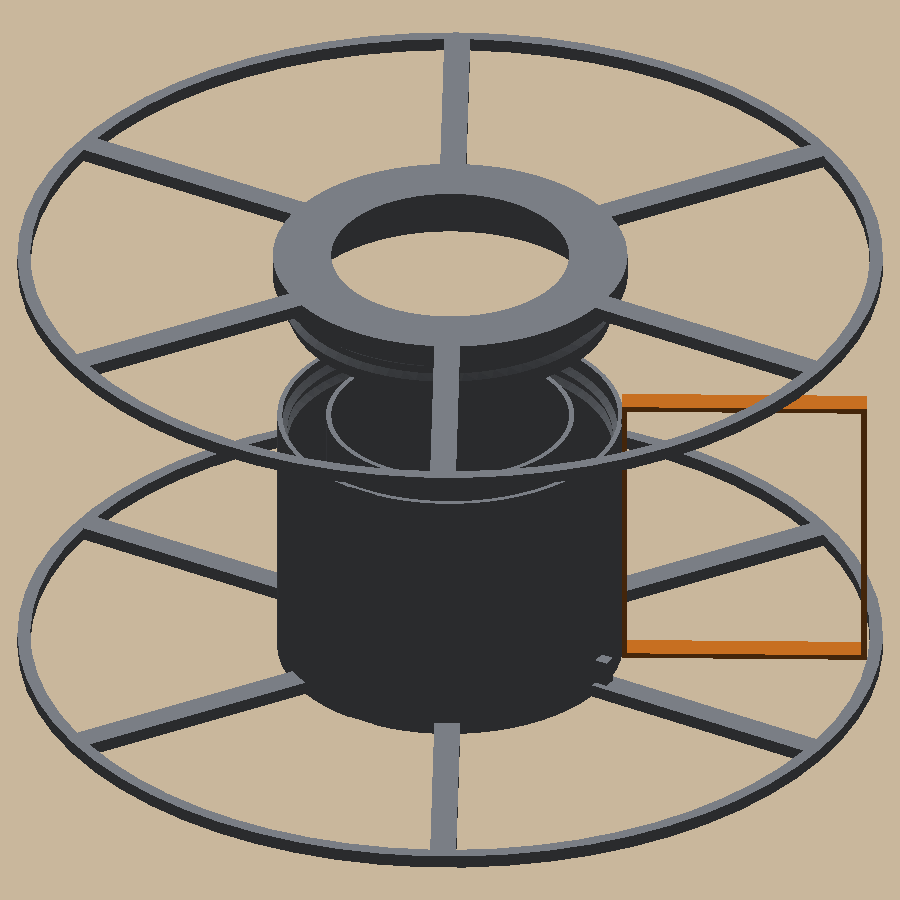
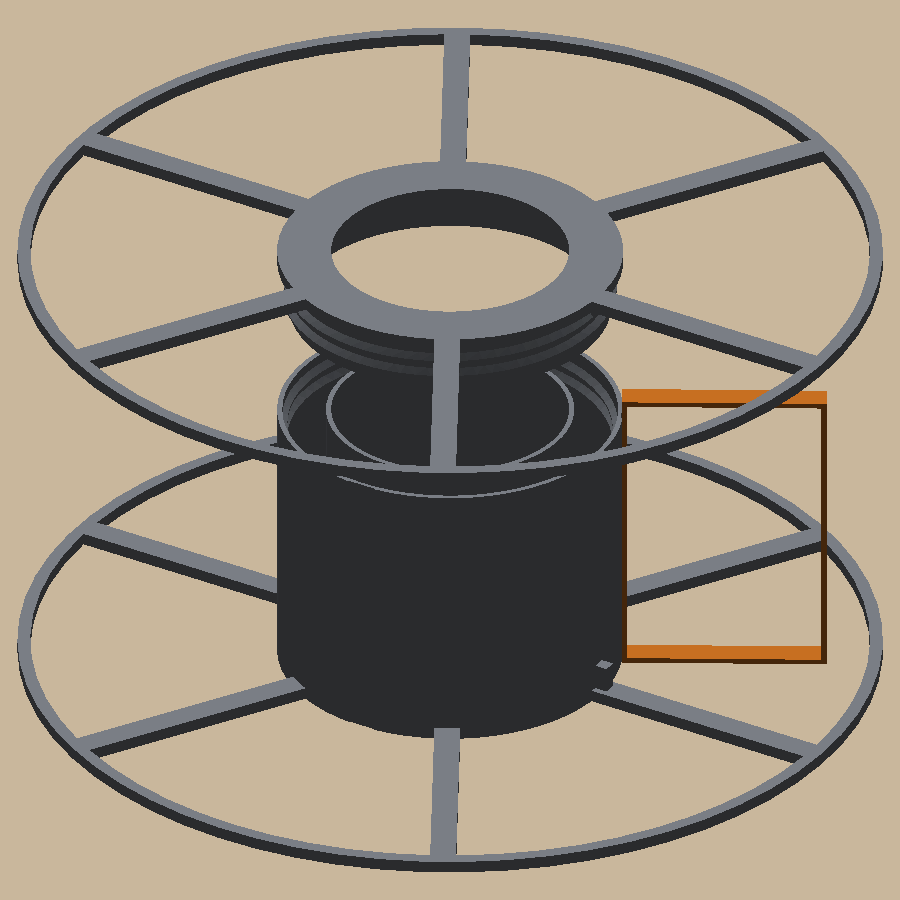
Refill spool: sized to a measured refill (61 mm coil, 171.5 mm OD, 82 mm core); no cap lip (79.8 g)
62 mm between 2.8 mm flanges: 67.6 mm overall, inside the AMS lite's 68. The cap lip sat exactly at the core's
inside diameter and isn't needed now the barrel is a whole tube.

diff --git a/examples/refill-spool/refill_spool/params.py b/examples/refill-spool/refill_spool/params.py
@@ -14,11 +14,14 @@ class Params:
     barrel_d: float = 80.0  # the refill's cardboard core is ~82 inside
     core_d: float = 82.0
     core_od: float = 87.0  # the cardboard's outside: the key has to stop inside its wall
-    coil_d: float = 190.0  # filament OD of a full 1 kg coil: straps pass over it inside the rim
-    inside_w: float = 59.0  # flange to flange, where the coil sits
+    coil_d: float = 171.5  # filament OD of a full 1 kg coil (6.75"): straps pass over it inside the rim
+    coil_w: float = 61.0
+    coil_side_clear: float = 0.5  # each side, between the coil and a flange
+    inside_w: float = 62.0  # flange to flange, where the coil sits
+    ams_max_w: float = 68.0  # AMS lite: spools 40-68 mm wide
     rim_d: float = 200.0
     # flanges: spokes and a rim instead of a solid disc
-    flange_t: float = 3.0
+    flange_t: float = 2.8  # 62 between flanges + 2 x 2.8 = 67.6, inside the AMS lite's 68
     rim_w: float = 3.0  # radial
     spokes: int = 6
     spoke_w: float = 6.0
@@ -32,10 +35,6 @@ class Params:
     core_notch_clear: float = 0.5  # the core's notch round the key, as modelled (unmeasured)
     # cap
     spigot_wall: float = 1.6
-    lip_h: float = 2.4  # ring on the cap flange round the barrel's top: keeps the thin barrel from spreading
-    lip_t: float = 0.8
-    lip_clear: float = 0.2  # radial, outside the barrel
-    lip_chamfer: float = 0.6  # lead-in on the lip's inner tip
     # thread: barrel top is the nut, cap spigot the bolt
     pitch: float = 4.0
     thread_depth: float = 1.2
@@ -56,7 +55,7 @@ class Params:
 
     def __post_init__(self):
         """Heights land on the printer's layers (yours, from cadkit.settings), so every top prints whole."""
-        for name in ("flange_t", "lip_h"):
+        for name in ("flange_t",):
             object.__setattr__(self, name, self.printer.snap(getattr(self, name)))
         for name in ("inside_w", "thread_len", "key_len"):  # stacked on the flange
             object.__setattr__(self, name, self.printer.layers(getattr(self, name)))
@@ -66,7 +65,7 @@ class Params:
 
     @property
     def width(self) -> float:
-        """Overall, outer face to outer face (AMS takes about 67)."""
+        """Overall, outer face to outer face (ams_max_w)."""
         return 2 * self.flange_t + self.inside_w
 
     @property

diff --git a/examples/refill-spool/tests/test_assembly.py b/examples/refill-spool/tests/test_assembly.py
@@ -29,6 +29,15 @@ def test_bore_runs_the_full_width():
     assert (whole & probe).volume == pytest.approx(0.01 * P.width, rel=1e-3)  # no gap along the way
 
 
+def test_coil_sits_between_the_flanges_with_room_each_side():
+    (_, barrel), (_, cap) = placed_parts(P)
+    c = coil(P)
+    for part in (barrel, cap):
+        assert c.distance_to(part) >= P.coil_side_clear - 0.01
+    bb = c.bounding_box()
+    assert bb.size.Z == pytest.approx(P.coil_w, abs=1e-3) and bb.size.X == pytest.approx(P.coil_d, abs=0.01)
+
+
 def test_core_key_sits_in_the_cores_notch():
     """The key reaches into the core's wall, not past it: the coil's notch takes it with core_notch_clear round it."""
     assert P.barrel_d / 2 + P.key_h > P.core_d / 2 + 1.0
@@ -53,7 +62,7 @@ def bolt_points_in_nut(p):
     intersections of two swept ridges come back empty at random (cadkit.shapes.thread_gap)."""
     (_, barrel), (_, cap) = placed_parts(p)
     verts, _ = cap.tessellate(0.05, 0.3)
-    lo, hi = p.barrel_top - p.thread_len, p.barrel_top
+    lo, hi = p.barrel_top - p.thread_len, p.barrel_top - 0.01  # not the flange face resting on the barrel top
     pts = [v for v in verts if hypot(v.X, v.Y) > p.bolt_root + 0.05 and lo < v.Z < hi]
     assert len(pts) > 100
     return sum(barrel.is_inside(v) for v in pts[::2])
@@ -83,14 +92,3 @@ def test_strapped_coil_lifts_off_the_barrel(lift):
     (_, barrel), _ = placed_parts(P)
     load = [coil(P)] + strap_paths(P)
     assert [round((Pos(0, 0, lift) * s & barrel).volume, 3) for s in load] == [0] * len(load)
-
-
-def test_cap_lip_holds_the_barrel_top_in():
-    """Screwed home, a lip on the cap wraps the barrel's top, lip_clear outside it, so the thread can't spread the
-    thin barrel."""
-    (_, barrel), (_, cap) = placed_parts(P)
-    lip = cap & (Pos(0, 0, P.barrel_top - P.lip_h) * ring(P.barrel_d / 2, P.barrel_d / 2 + 5, P.lip_h))
-    bb = lip.bounding_box()
-    assert bb.min.Z == pytest.approx(P.barrel_top - P.lip_h, abs=1e-3)
-    assert min(hypot(v.X, v.Y) for v in lip.vertices()) == pytest.approx(P.barrel_d / 2 + P.lip_clear, abs=0.02)
-    assert lip.distance_to(barrel) == pytest.approx(P.lip_clear, abs=0.02)

diff --git a/examples/refill-spool/tests/test_parts.py b/examples/refill-spool/tests/test_parts.py
@@ -118,20 +118,19 @@ def test_bore_is_plain(barrel):
         assert radial(barrel, C, P.key_angle + 30, z)[0][0] == pytest.approx(BORE, abs=0.02)
 
 
-def test_cap_flange_spigot_and_lip(capp):
-    """The cap's flange is solid from the bore out to the lip, so the bore ring isn't hung on the spokes."""
-    lip_out = P.barrel_d / 2 + P.lip_clear + P.lip_t
+def test_cap_flange_and_spigot(capp):
+    """The cap's flange is solid from the bore out over the barrel's top end, so the bore isn't hung on the spokes."""
     assert radial(capp, C, PLAIN_GAP * 1.5, LOW) == [
-        pytest.approx((BORE, lip_out), abs=0.02),
+        pytest.approx((BORE, R_OUT), abs=0.02),
         pytest.approx((P.rim_in, P.rim_d / 2), abs=0.02)]
-    lip = radial(capp, C, PLAIN_GAP * 1.5, P.flange_t + 0.1, r0=P.barrel_d / 2 - 0.5, r1=P.rim_in - 0.5)
-    assert lip == [pytest.approx((P.barrel_d / 2 + P.lip_clear, lip_out), abs=0.02)]
-    top = radial(capp, C, PLAIN_GAP * 1.5, P.flange_t + P.lip_h - 0.05, r0=P.barrel_d / 2 - 0.5, r1=P.rim_in - 0.5)
-    assert top[0][0] > P.barrel_d / 2 + P.lip_clear + P.lip_chamfer / 2  # lead-in at the lip's tip
     assert capp.bounding_box().max.Z == pytest.approx(P.flange_t + P.thread_len, abs=1e-3)
     outer = max(radial(capp, C, a, P.flange_t + P.thread_len / 2)[0][1] for a in range(0, 360, 5))
     assert outer == pytest.approx(P.bolt_root + P.thread_depth, abs=0.05)
 
 
+def test_the_measured_coil_fits_between_the_flanges():
+    assert P.inside_w - P.coil_w >= 2 * P.coil_side_clear
+
+
 def test_overall_size_fits_the_ams():
-    assert P.width <= 67.0 and P.rim_d <= 200.0
+    assert P.width <= P.ams_max_w and P.rim_d <= 200.0

diff --git a/examples/refill-spool/refill_spool/parts.py b/examples/refill-spool/refill_spool/parts.py
@@ -2,7 +2,7 @@
 the spool axis (Z) for the assembly."""
 import math
 
-from build123d import Align, Box, Cone, Cylinder, Part, Pos, Rot
+from build123d import Align, Box, Cylinder, Part, Pos, Rot
 
 from cadkit.shapes import thread, thread_gap
 from refill_spool.params import P, Params
@@ -89,14 +89,7 @@ def barrel_half_centered(p: Params = P) -> Part:
 def cap_centered(p: Params = P) -> Part:
     top = p.flange_t + p.thread_len
     inner = p.bolt_root - p.spigot_wall
-    lip_in = p.barrel_d / 2 + p.lip_clear
-    lip_out = lip_in + p.lip_t
-    part = flange(p) + ring(p.bore_d / 2, lip_out, p.flange_t)  # solid from the bore out under the spigot and lip
-    lip = Pos(0, 0, p.flange_t) * ring(lip_in, lip_out, p.lip_h)
-    tip = p.flange_t + p.lip_h - p.lip_chamfer
-    lead_in = Cone(lip_in, lip_in + p.lip_chamfer, p.lip_chamfer, align=UP) - Cylinder(lip_in - 1, p.lip_chamfer,
-                                                                                      align=UP)
-    part += lip - Pos(0, 0, tip) * lead_in
+    part = flange(p) + ring(p.bore_d / 2, p.barrel_d / 2, p.flange_t)  # solid from the bore over the barrel's top
     part += ring(inner, p.bolt_root, top)
     z0, z1 = bolt_span(p)
     part += thread(p.bolt_root, p.thread_depth, p.pitch, z1 - z0, p.thread_crest, z0=z0, flank=p.thread_flank)

diff --git a/examples/refill-spool/refill_spool/assembly.py b/examples/refill-spool/refill_spool/assembly.py
@@ -12,10 +12,10 @@ def placed_parts(p: Params = P) -> list[tuple[str, Part]]:
 
 
 def coil(p: Params = P) -> Part:
-    """A full refill: cardboard core inside, 1 kg of filament out to coil_d, 0.5 mm short of each flange, with a
-    notch in the core's end round the barrel half's key."""
+    """A full refill as measured: cardboard core inside, filament out to coil_d, coil_w wide, centered between the
+    flanges, with a notch in the core's end round the barrel half's key."""
     c = p.core_notch_clear
-    full = Pos(0, 0, p.flange_t + 0.5) * ring(p.core_d / 2, p.coil_d / 2, p.inside_w - 1)
+    full = Pos(0, 0, p.flange_t + (p.inside_w - p.coil_w) / 2) * ring(p.core_d / 2, p.coil_d / 2, p.coil_w)
     return full - radial_box(p.key_angle, p.core_d / 2 - 1, p.barrel_d / 2 + p.key_h + c, p.key_w + 2 * c,
                              p.key_len + c, p.flange_t)
 

diff --git a/examples/refill-spool/refill_spool/build.py b/examples/refill-spool/refill_spool/build.py
@@ -1,7 +1,7 @@
 """uv run python -m refill_spool.build [--out out]: STEP for CAD, out/plates/refill_spool.3mf (one Bambu Studio
 project, a plate per half; each plate also on its own), out/view/refill_spool_assembled.3mf (to look at, not print:
 screwed together, and strapping a coil with the cap off), and shaded previews in out/render (iso.png: the halves
-apart; top.png: the barrel half from above; cap.png: the cap as printed, spigot and lip up)."""
+apart; top.png: the barrel half from above; cap.png: the cap as printed, spigot up)."""
 import argparse
 import sys
 from pathlib import Path

diff --git a/examples/refill-spool/docs/measurements.md b/examples/refill-spool/docs/measurements.md
@@ -2,18 +2,17 @@
 
 | What | Value | Source |
 |---|---|---|
+| Refill core, inside | 82 mm | user, on a real refill (2026-10-20) |
+| Refill coil, outside of the filament | 6.75" = 171.5 mm | user, on a real refill |
+| Refill coil width | 61 mm | user, on a real refill |
+| Refill core, outside | ~87 mm | Bambu forum, one user's caliper |
+| AMS lite spool limits | 40–68 mm wide, 53–58 mm bore | [Bambu store](https://us.store.bambulab.com/products/ams-lite) |
 | Bambu reusable spool outside diameter | 200 mm | [Bambu forum](https://forum.bambulab.com/t/bambu-spool-dimensions/123480), [3DJake listing](https://www.3djake.com/bambu-lab/bambu-reusable-spool-high-temperature-resistance) |
-| Bambu reusable spool overall width | ~67 mm | same |
-| Bambu reusable spool bore | 55 mm (user: "54 maybe") | same; AMS lite reportedly takes 53–58 |
-| Refill cardboard core | ~82 mm inside, ~87 mm outside (2026 refill) | Bambu forum, one user's caliper |
+| Bambu reusable spool bore | 55 mm (user: "54 maybe") | same |
 | Spool barrel outside diameter | 80 mm | user's printed spools |
-| Flange thickness / between flanges | 4 mm / ~59 mm | user's printed spools (200 mm walls, 4 mm thick) |
 | Core key (on the barrel, into the core's notch) | 6 mm along the barrel from the flange, 3 mm high, 3 mm wide | user |
 
 Still to measure on a real refill:
 - the notch in the core's end that the key goes in (the model assumes 0.5 mm round the key);
-- coil width including its own ties (must be under 59 mm; 0.5 mm a side is all the room there is);
-- full coil outside diameter (straps pass over it inside the rim at Ø194; the model assumes Ø190);
-- the core's inside diameter: the strap tracks are tunnels 1.4 mm deep only if it's 82 (less and ties won't fit);
-- how many ties run under the core and how they're spaced (they only fit in the barrel's 3 tracks, 120° apart);
-- how far the AMS lite hub reaches into the bore (the bore is a tube the full 65 mm, so any reach works).
+- whether the refill's own ties sit proud of the coil's 61 mm (0.5 mm a side is all the room there is);
+- how many ties run under the core and how they're spaced (they only fit in the barrel's 3 tracks, 120° apart).

diff --git a/examples/refill-spool/docs/specs/refill-spool.md b/examples/refill-spool/docs/specs/refill-spool.md
@@ -19,7 +19,7 @@ the spool in one piece.
 - **Straps:** 3 slots, 10 mm wide, run the barrel's full length midway between spokes. A strap goes under the core
   in a slot, out through both flanges between the spokes, and back over the coil inside the rim (needs the coil
   under Ø190; measure a full one). Tests model each loop at 1.5 mm thick and require it to touch nothing.
-- **Filament:** PLA, AMS slot 3 (see amendments). Bambu Studio slices the pair at 80.4 g; the tests hold
+- **Filament:** PLA, AMS slot 3 (see amendments). Bambu Studio slices the pair at 79.8 g; the tests hold
   it under 85 g.
 
 All sizes live in `refill_spool/params.py`.
@@ -61,3 +61,12 @@ All sizes live in `refill_spool/params.py`.
   core's ~Ø87 outside), 3 mm wide, standing on a spoke. The notch in the bore is gone, and with it the 4.5 mm × 7.2
   mm bore ring that held it: the bore is the plain 1.2 mm tube. The barrel half now has no bridges at all. The coil
   model carries a notch 0.5 mm round the key (unmeasured). 80.4 g sliced (barrel half 54.7 g, cap 25.8 g).
+- **2026-10-20: sized to a measured refill; no cap lip.** The user measured a real refill: core 82 mm inside,
+  filament 6.75" (171.5 mm) outside, coil 61 mm wide. The coil was 2 mm wider than the space.
+  - 62 mm between flanges (0.5 mm a side) and 2.8 mm flanges: 67.6 mm overall, inside the AMS lite's 68 mm
+    (Bambu store: 40–68 mm wide, 53–58 mm bore).
+  - The cap lip came out: its outside sat at Ø82, exactly the core's inside, so the core would rub on it as the cap
+    screwed down. It was there to hold the old slotted barrel's strips; since the strap tracks, the barrel is a
+    whole tube. The cap's flange stays solid from the bore out over the barrel's top end.
+  - Straps pass over the coil at Ø171.5, well inside the rim.
+  - 79.8 g sliced (barrel half 55.7 g, cap 24.0 g).

diff --git a/examples/refill-spool/README.md b/examples/refill-spool/README.md
@@ -4,7 +4,7 @@
 
 A reusable spool for Bambu Lab 1 kg refill coils, made to use as little filament as possible: about 80 g of PLA
 for both halves, against ~220 g for a solid printed spool. Spoked flanges with a thin rim, a Ø80 barrel with strap
-tracks, and a cap that screws into the barrel top. It fits the AMS lite (Ø55 bore, 65 mm wide). A key at the barrel
+tracks, and a cap that screws into the barrel top. It fits the AMS lite (Ø55 bore, 67.6 mm wide). A key at the barrel
 half's flange pokes into the notch in the refill's cardboard core, so the coil turns with the spool. Zip ties run
 down the tracks under the core and round the coil, so the coil comes off in one piece.
 
